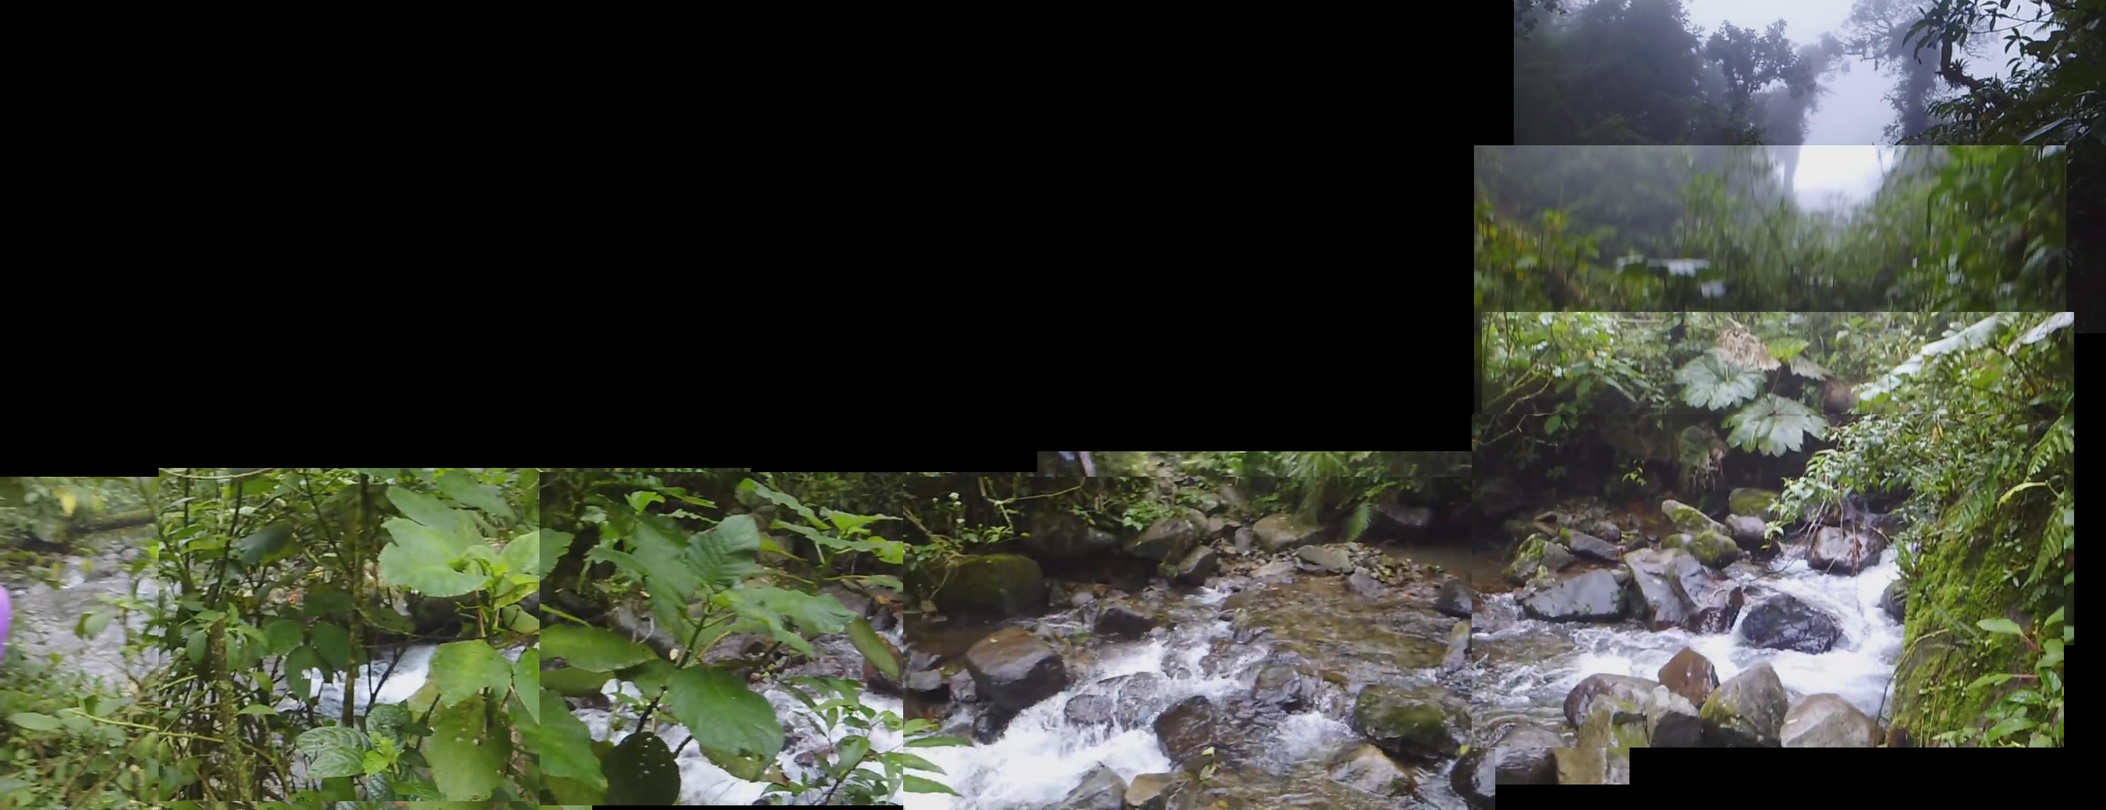
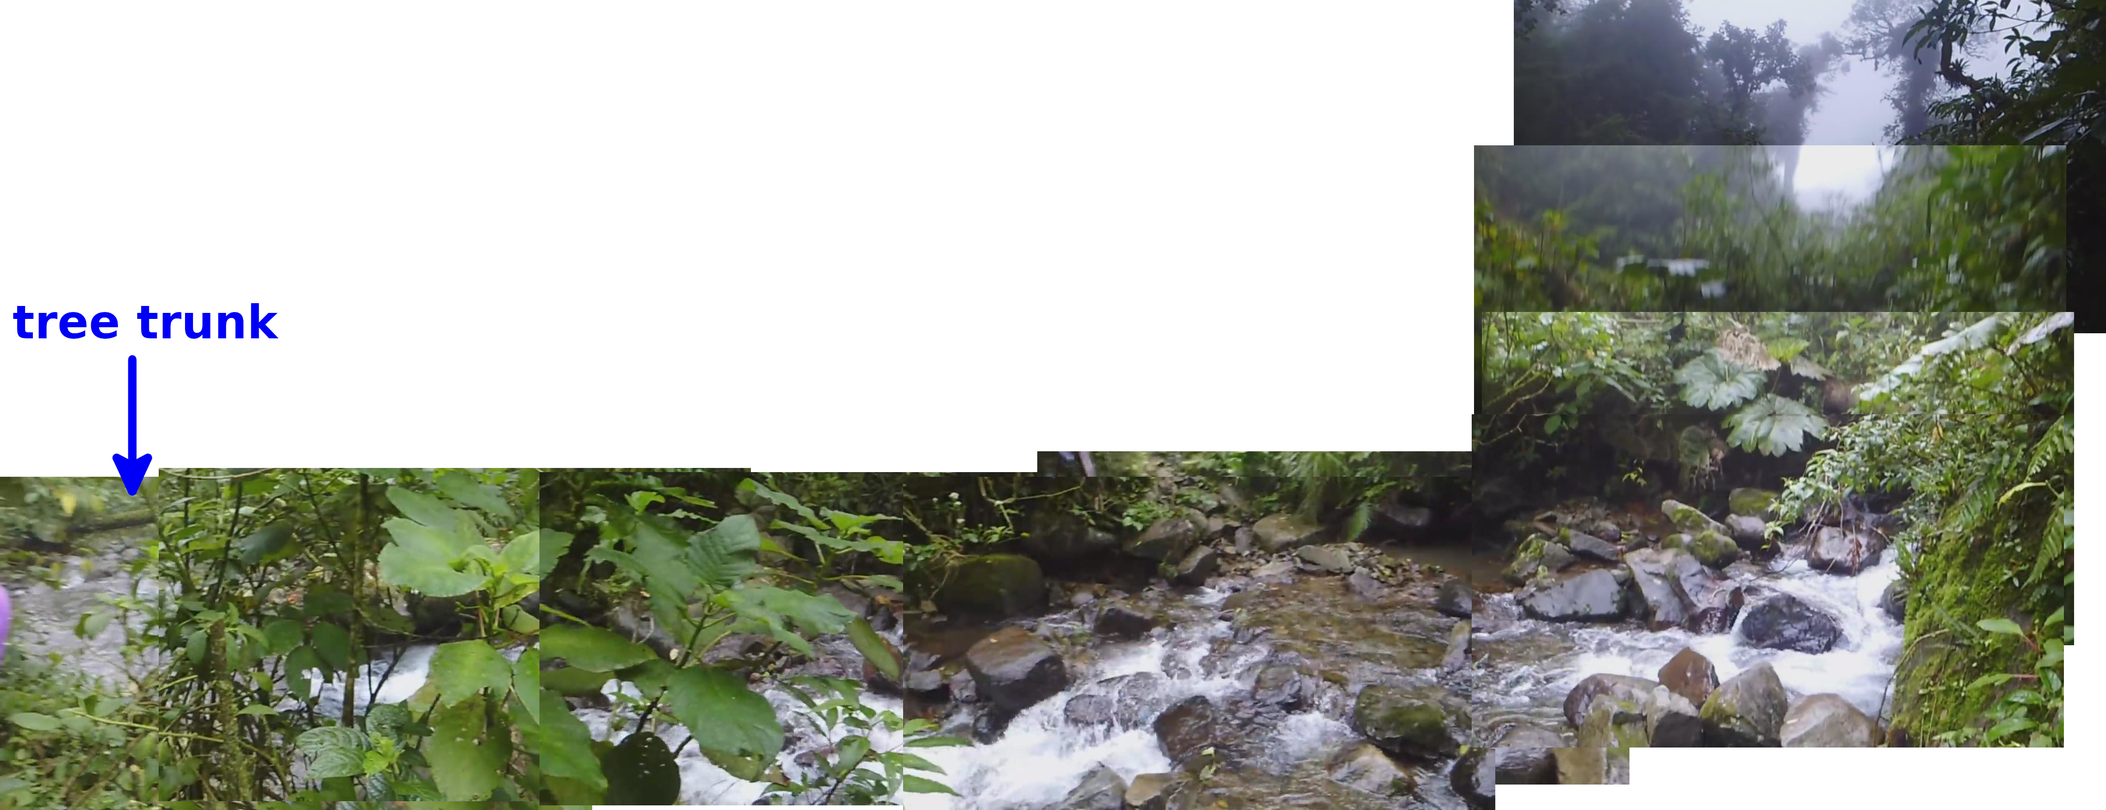
add point "Stream crossing"

diff --git a/stream_crossing.html b/stream_crossing.html
@@ -1,0 +1,114 @@
+<!DOCTYPE html PUBLIC "-//W3C//DTD XHTML 1.0 Transitional//EN" "http://www.w3.org/TR/xhtml1/DTD/xhtml1-transitional.dtd">
+<html xmlns="http://www.w3.org/1999/xhtml">
+<head>
+<meta http-equiv="Content-Type" content="text/html; charset=utf-8" />
+<title></title>
+<link href="website.css" rel="stylesheet" type="text/css" />
+
+<style type="text/css">
+<!--
+.style1 {
+	font-size: large;
+	font-weight: bold;
+	color: #0000FF;
+}
+.style2 {
+	color: #000000;
+	font-size: medium;
+	font-weight: bold;
+}
+.style3 {font-size: small}
+-->
+#example1 { float: left; }
+</style>
+</head>
+
+<body>
+<div id="stronaCI">
+<p><span class="style1">The stream crossing</span></p>
+<p>The article is a continuation of my efforts to find the location of photos 507 and 508.</p>
+<p>The photo below shows a comparison of two stream crossings: the stream crossing that RomainC reached during his hike in 2019 (on the left) and the stream crossing in photo 508 (on the right). The left shot comes from <a href="https://www.youtube.com/watch?v=Fd7isUH2aZI" target="_blank">the film</a> (0:28). The left shot shows the same stream crossing across which The Imperfect Plan team went during their expedition in 2021. (See the series of articles on <a href="https://imperfectplan.com/kris-kremers-and-lisanne-froon-case-articles/" target="_blank">the Imperfect Plan web page</a>). <p>
+<p><a href="crime/froon_kremers/stream_crossing/comparison_of_crossings.jpg" target="_blank">
+<img src="crime/froon_kremers/stream_crossing/comparison_of_crossings.jpg" align="middle" width="680" height="218"  /></a></p>
+<p align="center">Photo 20-1</p>
+<p>The above photo shows two main differences between both shots:</br>
+1) the path on the left goes to the right, the slope is small; the path on the right goes to the left, the slope is considerable;</br>
+2) there is a large stone in the left shot (on the right); we do not see such a stone in the right shot.</p>
+<p>It is sensible to assume that there is another path across quebrada 1. Let us look for another stream crossing.</p>
+<p>The below photo combination was made of shots from <a href="https://www.youtube.com/watch?v=gnfol1KfUPc" target="_blank">the film</a> (published on Jan 28, 2015).</p>
+<p><a href="crime/froon_kremers/quebrada1_1/quebrada1_2.JPG" target="_blank">
+<img src="crime/froon_kremers/quebrada1_1/quebrada1_2.JPG" align="middle" width="680" height="261"  /></a></p>
+<p align="center">Photo 20-2</p>
+<p><a href="crime/froon_kremers/quebrada1/quebrada1_5.html" target="_blank">The site</a> illustrates how the above combination was made. Photo 20-2 was made of shots that were taken from the other side of the stream.</p>
+<p>What are common characteristics to the stream crossing in photos 507 and 508? The following photo combination illustrates 3 common characteristics.</p>
+<p><a href="crime/froon_kremers/quebrada1_1/quebrada1_3.jpg" target="_blank">
+<img src="crime/froon_kremers/quebrada1_1/quebrada1_3.jpg" align="middle" width="680" height="261"  /></a></p>
+<p align="center">Photo 20-2</p>
+<p>The characteristics are:</br>
+1) the stone by which Kris stands (marked with a red arrow);</br>
+2) the rock on the other side of the stream crossing (marked with a pink arrow);</br>
+3) a large leave of a plant (marked with a blue arrow).
+</p>
+<p>There is also a tree trunk on the left which is a common characteristic to a drone footage what I explain below.</p>
+<p>RomainC, a member of the Imperfect Plan team, has published <a href="https://www.youtube.com/watch?v=DWy1cVoBz8k" target="_blank">the drone footage</a> of quebrada 1 (or river 1 - that is how the Imperfect Plan team calls the stream) recently.</p>
+<p>The below map illustrates how I interpret the footage. You can find links to some shots from the drone footage on the right. Links are denoted 33:01, 33:09 etc. The corresponding points to those shots are marked on the map.</p>
+<div id="example">
+<a href="crime/froon_kremers/stream_crossing/drone_footage_points.jpg" target="_blank">
+<img src="crime/froon_kremers/stream_crossing/drone_footage_points.jpg" alt="drone_footage_points.jpg" width="600" height="307" hspace = "10" id="example1">
+<p>
+<a href="crime/froon_kremers/stream_crossing/1river33_01.png" target="_blank">33:01</a>
+<br>
+<a href="crime/froon_kremers/stream_crossing/1river33_09.png" target="_blank">33:09</a>
+<br>
+<a href="crime/froon_kremers/stream_crossing/1river33_15.png" target="_blank">33:15</a>
+<br>
+<a href="crime/froon_kremers/stream_crossing/1river33_25.png" target="_blank">33:25</a>
+<br>
+<a href="crime/froon_kremers/stream_crossing/1river33_32.png" target="_blank">33:32</a>
+<br>
+<a href="crime/froon_kremers/stream_crossing/1river33_38.png" target="_blank">33:38</a>
+<br>
+<br style="clear: both;" /></p>
+</div>
+<p align="center">Photo 20-3</p>
+<p>The drone footage was filmed in two ways - from lower height and from higher height. The recording from lower height was being made downstream. The recording from higher height was being made in both directions.</p>
+<p>The shots from lower height allows you to recognize the details of the terrain better.</p>
+<p>The following shots from the drone footage allows you to locate the place visible in <a href="https://www.youtube.com/watch?v=gnfol1KfUPc" target="_blank">the film</a> from 2015:</br>
+<p><a href="crime/froon_kremers/stream_crossing/1river02_19_update.png" target="_blank">
+<img src="crime/froon_kremers/stream_crossing/1river02_19_update.png" align="left" hspace = "10" width="400" height="225"  /></a> 2:19 a stone in the stream (a different stone from the ones visible in photo 20-1)<br style="clear: both;" /></p>
+<p><a href="crime/froon_kremers/stream_crossing/1river02_45_update.png" target="_blank">
+<img src="crime/froon_kremers/stream_crossing/1river02_45_update.png" align="left" hspace = "10" width="400" height="225"  /></a> 2:45 a hypothetical location of the place where photos 507 and 508 were taken. The stone by which Kris stands in photo 507 is probably obscured by plants.<br style="clear: both;" /></p>
+<p><a href="crime/froon_kremers/stream_crossing/1river03_13_update.png" target="_blank">
+<img src="crime/froon_kremers/stream_crossing/1river03_13_update.png" align="left" hspace = "10" width="400" height="225"  /></a> 3:13 the tree trunk visible in photo 20-2<br style="clear: both;" /></p>
+<p>The location of the place in photos 507 and 508, the location of the Imperfect Plan stream crossing are marked in the following photo (33:38 minutes of the drone footage):</p>
+<p><a href="crime/froon_kremers/stream_crossing/1river33_38_update.png" target="_blank">
+<img src="crime/froon_kremers/stream_crossing/1river33_38_update.png" align="middle" width="680" height="382"  /></a></p>
+<p align="center">Photo 20-4</p>
+<p>Both stream crossings are obscured by plants in the above photo.</p>
+<p>Another shot (33:42) shows locations of both stream crossings (obscured by plants) and the location of the stone visible at 2:19 minutes of the drone footage:</p>
+<p><a href="crime/froon_kremers/stream_crossing/1river33_42_update.png" target="_blank">
+<img src="crime/froon_kremers/stream_crossing/1river33_42_update.png" align="middle" width="680" height="382"  /></a></p>
+<p align="center">Photo 20-5</p>
+<p>The below shot (33:44) shows the location of the Imperfect Plan stream crossing (obscured by plants) and the location of the stone visible at 2:19 minutes of the drone footage:</p>
+<p><a href="crime/froon_kremers/stream_crossing/1river33_44_update.png" target="_blank">
+<img src="crime/froon_kremers/stream_crossing/1river33_44_update.png" align="middle" width="680" height="382"  /></a></p>
+<p align="center">Photo 20-6</p>
+<p>Based on photo 20-4 we can determine approximate coordinates of the hypothetical location of the place in photos 507 and 508. It is shown on the following map:</p>
+<p><a href="crime/froon_kremers/stream_crossing/two_stream_crossings_new1u.png" target="_blank">
+<img src="crime/froon_kremers/stream_crossing/two_stream_crossings_new1u.png" align="middle" width="680" height="382"  /></a></p>
+<p align="center">Photo 20-7</p>
+<p>The coordinates of the two stream crossings:</br>
+1) the location of photos 507 and 508</br>
+8.84293083334,-82.4244834735</br>
+2) the Imperfect Plan stream crossing (see <a href="https://imperfectplan.com/2021/11/21/expedition-1-maps-coordinates/" target="_blank">the web page</a>)</br>
+8.842443991,-82.42469198 .</br>
+The distance between the two places is 58.5 m according to <a href="https://www.gpsvisualizer.com/calculators" target="_blank">the web page</a>.</p>
+<p>A satellite map of the two places:</p>
+<p><a href="crime/froon_kremers/stream_crossing/two_stream_crossings_sat_new1u.png" target="_blank">
+<img src="crime/froon_kremers/stream_crossing/two_stream_crossings_sat_new1u.png" align="middle" width="680" height="382"  /></a></p>
+<p align="center">Photo 20-8</p>
+<p>There is no direct evidence that the place that I found on the drone footage is the location of photos 507 and 508 because plants obscure the place but that is a place worth to explore. My idea is that the stream crossing across which the Imperfect Plan team went in 2021 is not the location of photos 507 and 508. My hypothesis is that the place indicated above is the location where photos 507 and 508 were taken.</p>
+</div>
+<div id="stronaP"></div>
+</body>
+</html>

diff --git a/froon_kremers.html b/froon_kremers.html
@@ -31,10 +31,12 @@
 <div id="stronaCI">
 <p><span class="style4">In memory of Lisanne Froon (1991-2014) and Kris Kremers (1992-2014)</span><br />
 <p>Lisanne Froon and Kris Kremers were young Dutch women who went to Panama and they never came back from there. You can find comprehensive material about their disappearance and death on the Cold Case blog (<a href="https://koudekaas.blogspot.com/" target="_blank">part 1</a>, <a href="https://koudekaas.blogspot.com/2021/03/part-2-with-new-leads-new-swimming.html" target="_blank">part 2</a>, <a href="https://koudekaas.blogspot.com/2019/12/the-disappearance-of-kris-kremers-and_11.html" target="_blank">part 3</a>, <a href="https://koudekaas.blogspot.com/2019/02/part-4-with-latest-updates-on.html
-" target="_blank">part 4</a>). The collection <a href="https://photos.google.com/share/AF1QipOaDcK-zyudR_UXP4xNvvSpKhbEUNHFkl1cvaGaZrvkiKqkgSL0BK5mjUL2SGcDjw?key=UjkzUHpsRmtLNUc2RlphdjVTWHRZSVEySjNYS0NR" target="_blank">Juanswers for Kris Kremers & Lisanne Froon</a> contains many photos and a lot of analysis material. Here, I tried to analyse some shadows in the photographs left by the girls. I tried to find what the shadows tell us about their disappearance. In every available photo, I tried to find shadows that would enable me to calculate the time of taking the photo. The methods used to determine the time of taking a photo are described <a href="shadows_photos.html" target="_blank">here</a>. (You can find the descriptions in the menu on the left - point "Shadows in photos"). A summary of my results can be found <a href="photos_times.html" target="_blank">here</a> (point "1.1 Photos and times" on the left). The detailed descriptions of my calculations for every analysed photo can be found in the menu on the left. Analysing shadows is used to verify times of taking photos and time relationships between those times. To verify those times, I made an attempt to find the places on the El Pianista trail where the photos were taken.</p>
+" target="_blank">part 4</a>). The collection <a href="https://photos.google.com/share/AF1QipOaDcK-zyudR_UXP4xNvvSpKhbEUNHFkl1cvaGaZrvkiKqkgSL0BK5mjUL2SGcDjw?key=UjkzUHpsRmtLNUc2RlphdjVTWHRZSVEySjNYS0NR" target="_blank">Juanswers for Kris Kremers & Lisanne Froon</a> contains many photos and a lot of analysis material. A third valuable source of information is <a href="https://imperfectplan.com/kris-kremers-and-lisanne-froon-case-articles/" target="_blank">the Imperfect Plan web page</a>. Achievements of the Imperfect Plan team are impressive.</p>
+<p>Here, I tried to analyse some shadows in the photographs left by the girls. I tried to find what the shadows tell us about their disappearance. In every available photo, I tried to find shadows that would enable me to calculate the time of taking the photo. The methods used to determine the time of taking a photo are described <a href="shadows_photos.html" target="_blank">here</a>. (You can find the descriptions in the menu on the left - point "Shadows in photos"). A summary of my results can be found <a href="photos_times.html" target="_blank">here</a> (point "1.1 Photos and times" on the left). The detailed descriptions of my calculations for every analysed photo can be found in the menu on the left. Analysing shadows is used to verify times of taking photos and time relationships between those times. To verify those times, I made an attempt to find the places on the El Pianista trail where the photos were taken.</p>
 <p><b>Updates</b></p>
-<p>14 May 2021 - point "Places on trail" was added, see <a href="places_on_trail.html" target="_blank">here</a>. 
-<p>12 March 2021 - the list of EXIF time was updated according to <a href="https://camilleg.fr/wp-content/uploads/2021/02/KL-chronologie-1er-avril-2014.pdf" target="_blank">the list</a> that appeared not long ago (see <a href="exif_times.html" target="_blank">here</a>). Maps were updated according to the new list of EXIF times, see <a href="map_times.html" target="_blank">here</a> (point "Maps and times"). Point "Photo 6 (491)", the text "Update 12 March 2021" was added, see <a href="photo491.html" target="_blank">here</a>. Point "Photos of ravines", the text "Update 12 March 2021" was added, see <a href="photos_ravines.html" target="_blank">here</a>. Point "Photo 14 (505)" was added, see <a href="photo505.html" target="_blank">here</a>. Point "Photo 16 (508)", the text "In search of quebrada 1 part 4" was added, see <a href="photo16.html" target="_blank">here</a>.
+<p>19 October 2022 - point "Stream crossing" was added where I presented my hypothesis about the location of photos 507 and 508, see <a href="stream_crossing.html" target="_blank">here</a>.</p> 
+<p>14 May 2021 - point "Places on trail" was added, see <a href="places_on_trail.html" target="_blank">here</a>.</p> 
+<p>12 March 2021 - the list of EXIF time was updated according to <a href="https://camilleg.fr/wp-content/uploads/2021/02/KL-chronologie-1er-avril-2014.pdf" target="_blank">the list</a> that appeared not long ago (see <a href="exif_times.html" target="_blank">here</a>). Maps were updated according to the new list of EXIF times, see <a href="map_times.html" target="_blank">here</a> (point "Maps and times"). Point "Photo 6 (491)", the text "Update 12 March 2021" was added, see <a href="photo491.html" target="_blank">here</a>. Point "Photos of ravines", the text "Update 12 March 2021" was added, see <a href="photos_ravines.html" target="_blank">here</a>. Point "Photo 14 (505)" was added, see <a href="photo505.html" target="_blank">here</a>. Point "Photo 16 (508)", the text "In search of quebrada 1 part 4" was added, see <a href="photo16.html" target="_blank">here</a>.</p>
 <p>12 December 2020 - point "Photo 2" - the text titled "A Blender model of the iron bridge" was added.</p>
 <p>23 September 2020 - point "Photo 16 (508)" - the text titled "In search of quebrada 1 part 3" was added. Point "Maps and times" - I added maps where places where Kris and Lisanne took photos are marked; point "Time relationships" was added.</p>
 <p>16 September 2020 - point "Photo 16 (508)" - the text titled "In search of quebrada 1 part 2" was added.</p>

diff --git a/crime/froon_kremers/quebrada1/quebrada1_5.html b/crime/froon_kremers/quebrada1/quebrada1_5.html
@@ -1,0 +1,116 @@
+
+<head>
+<meta http-equiv="Content-Type" content="text/html; charset=cp1250" />
+</head>
+
+
+<table border="0" cellspacing="0" cellpadding="0">
+  <tr>
+    <td width="200" align="center">
+<p>
+</p></td>
+    <td width="200" align="center">
+<p>
+</p></td>
+    <td width="200" align="center">
+<p>
+</p></td>
+    <td width="200" align="center">
+<p>
+    <td width="200" align="center">
+<p>
+    <td width="200" align="center">
+<p>q2 4:00
+</p></td>
+  </tr>
+  <tr>
+    <td width="200" align="center"><p><a href="qx.JPG" target="_blank">
+<img src="qx.JPG" align="middle" width="200" height="125"  /></a></p></td>
+    <td width="200" align="center"><p><a href="qx.JPG" target="_blank">
+<img src="qx.JPG" align="middle" width="200" height="125"  /></a></p></td>
+    <td width="200" align="center"><p><a href="qx.JPG" target="_blank">
+<img src="qx.JPG" align="middle" width="200" height="125"  /></a></p></td>
+    <td width="200" align="center"><p><a href="qx.JPG" target="_blank">
+<img src="qx.JPG" align="middle" width="200" height="125"  /></a></p></td>
+    <td width="200" align="center"><p><a href="qx.JPG" target="_blank">
+<img src="qx.JPG" align="middle" width="200" height="125"  /></a></p></td>
+    <td width="200" align="center"><p><a href="q2.JPG" target="_blank">
+<img src="q2.JPG" align="middle" width="200" height="125"  /></a></p></td>
+  </tr>
+</table>
+
+<table border="0" cellspacing="0" cellpadding="0">
+  <tr>
+    <td width="200" align="center"><p><a href="qx.JPG" target="_blank">
+<img src="qx.JPG" align="middle" width="200" height="125"  /></a></p></td>
+    <td width="200" align="center"><p><a href="qx.JPG" target="_blank">
+<img src="qx.JPG" align="middle" width="200" height="125"  /></a></p></td>
+    <td width="200" align="center"><p><a href="qx.JPG" target="_blank">
+<img src="qx.JPG" align="middle" width="200" height="125"  /></a></p></td>
+    <td width="200" align="center"><p><a href="qx.JPG" target="_blank">
+<img src="qx.JPG" align="middle" width="200" height="125"  /></a></p></td>
+    <td width="200" align="center"><p><a href="qx.JPG" target="_blank">
+<img src="qx.JPG" align="middle" width="200" height="125"  /></a></p></td>
+    <td width="200" align="center"><p><a href="q1.JPG" target="_blank">
+<img src="q1.JPG" align="middle" width="200" height="125"  /></a></p></td>
+  </tr>
+</table>
+
+
+<table border="0" cellspacing="0" cellpadding="0">
+  <tr>
+    <td width="200" align="center"><p><a href="qd.JPG" target="_blank">
+<img src="qd.JPG" align="middle" width="200" height="125"  /></a></p></td>
+    <td width="200" align="center"><p><a href="qc.JPG" target="_blank">
+<img src="qc.JPG" align="middle" width="200" height="125"  /></a></p></td>
+    <td width="200" align="center"><p><a href="qa.JPG" target="_blank">
+<img src="qa.JPG" align="middle" width="200" height="125"  /></a></p></td>
+    <td width="200" align="center"><p><a href="qf.JPG" target="_blank">
+<img src="qf.JPG" align="middle" width="200" height="125"  /></a></p></td>
+    <td width="200" align="center"><p><a href="qg1.JPG" target="_blank">
+<img src="qg1.JPG" align="middle" width="200" height="125"  /></a></p></td>
+    <td width="200" align="center"><p><a href="q3_1.JPG" target="_blank">
+<img src="q3_1.JPG" align="middle" width="200" height="125"  /></a></p></td>
+  </tr>
+  <tr>
+    <td width="200" align="center">
+<p>qd 3:53
+</p></td>
+    <td width="200" align="center">
+<p>qc 3:53
+</p></td>
+    <td width="200" align="center">
+<p>qa 3:51
+</p></td>
+    <td width="200" align="center">
+<p>qf 3:51 photo 507,508
+    <td width="200" align="center">
+<p>qg 3:50 photo 507,508
+    <td width="200" align="center">
+<p>q3 4:00
+</p></td>
+  </tr>
+</table>
+
+<table border="0" cellspacing="0" cellpadding="0">
+  <tr>
+    <td width="600" align="center"><p><a href="quebrada1_zoom_earth.jpg" target="_blank">
+<img src="quebrada1_zoom_earth.jpg" align="middle" width="600" height="336"  /></a></p></td>
+    <td width="200" align="center"><p><a href="quebrada1_answers_for_kris.png" target="_blank">
+<img src="quebrada1_answers_for_kris.png" align="middle" width="200" height="113"  /></a></p></td>
+    <td width="200" align="center"><p><a href="507x.jpg" target="_blank">
+<img src="507x.jpg" align="middle" width="200" height="266"  /></a></p></td>
+    <td width="200" align="center"><p><a href="508.jpg" target="_blank">
+<img src="508.jpg" align="middle" width="200" height="150"  /></a></p></td>
+  </tr>
+</table>
+
+<p>The shots denoted qa, qd, qc etc. come from <a href="https://www.youtube.com/watch?v=gnfol1KfUPc" target="_blank">the film</a> (published on Jan 28, 2015). They are organized as follows: the shots taken while 
+the camera is moving vertically are arranged vertically; the shots taken while 
+the camera is moving horizontally are arranged horizontally. The photos overlap 
+each other both vertically and horizonatlly. The shots were taken from the other side of the stream.</p>
+<p>Some common characteristics are marked in the above photos. The stone by which Kris stands in photo 507 is marked in red. 
+The large leaves of a plant are marked in blue. The rock on the other side 
+of the stream crossing is marked in pink.</p>
+
+</body>

diff --git a/exif_times.html b/exif_times.html
@@ -26,6 +26,7 @@
 <div id="stronaCI">
 <p><span class="style1">EXIF times</span></p>
 <p>The table below contains a list of photos taken by Lisanne Froon and Kris Kremers on April 1st 2014. The table is based on the information from <a href="https://camilleg.fr/wp-content/uploads/2021/02/KL-chronologie-1er-avril-2014.pdf" target="_blank">the list</a> (in French). There is also an English version of the list in <a href="https://imperfectplan.com/2021/02/24/kremers-froon-new-case-data-timestamps-of-missing-daytime-photos/" target="_blank">the excellent article</a>. I prefer the French version because it seems to be more accurate. Photo numbers are numbers of original images from file names in the camera. "Ordinal number" is a subsequent number of a photo used in my text. For example I refer to photo number 486 as photo 1 in my text. Photos not known in public are denoted "???" in the column "photo". Corrected EXIF time is obtained by subtracting 6 hours from the original EXIF time.</p> 
+<p>Some information presented on my web site is based on <a href="exif_times_old.html" target="_blank">the old list of EXIF times</a>.
 <table id="tabelaCI" border="1" cellspacing="0" cellpadding="0">
   <tr>
     <td width="300" align="center"><p></br>

diff --git a/index.html b/index.html
@@ -57,6 +57,7 @@
      	<a href="photo16.html" style="text-decoration:none; color:#FFFFFF" target="ramka-1" id="hm">&nbsp;1.17 Photo 16 (508)</a>
      	<a href="photos_ravines.html" style="text-decoration:none; color:#FFFFFF" target="ramka-1" id="hm">&nbsp;1.18 Photos of ravines</a>
      	<a href="photo505.html" style="text-decoration:none; color:#FFFFFF" target="ramka-1" id="hm">&nbsp;1.19 Photo 14 (505)</a>
+     	<a href="stream_crossing.html" style="text-decoration:none; color:#FFFFFF" target="ramka-1" id="hm">&nbsp;1.20 Stream crossing</a>
      	<a href="magdalena_zuk.html" style="text-decoration:none; color:#FFFFFF" target="ramka-1" id="hm">&nbsp;2. Magdalena Żuk</a>
      	<a href="conversation.html" style="text-decoration:none; color:#FFFFFF" target="ramka-1" id="hm">&nbsp;2.1 Conversation</a>
      	<a href="software_research.html" style="text-decoration:none; color:#FFFFFF" target="ramka-1" id="lm">&nbsp;Software and research</a>

diff --git a/photo1.html b/photo1.html
@@ -25,6 +25,7 @@
 <body>
 <div id="stronaCI">
 <p><span class="style1">Photo 1 (486)</span></p>
+<p>[The below text is based on the old numbering of photos presented on <a href="exif_times_old.html" target="_blank">the old list of EXIF times</a>.]</p>
 <p>A selfie of Kris and Lisanne taken on the El Pianista trail.</p>
 <p align="center"><a href="crime/froon_kremers/photos/photo1.jpg" target="_blank">
 <img src="crime/froon_kremers/photos/photo1.jpg" width="458" height="499"  /></a></p>
